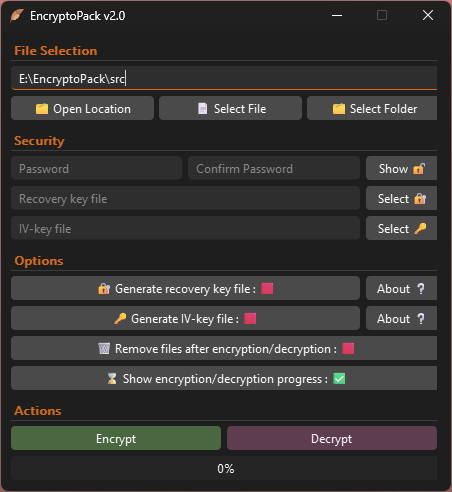
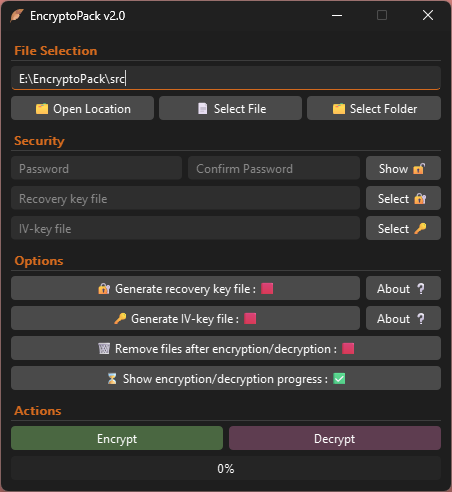
v2.0

diff --git a/src/gui.py b/src/gui.py
@@ -129,7 +129,7 @@ class MainWindow(QMainWindow):
 
         # Create main container
         main_frame = QFrame(self)
-        main_frame.setGeometry(10, 10, 426, 444)
+        main_frame.setGeometry(10, 10, 430, 444)
 
         # Layout positions
         y_pos = 0
@@ -234,12 +234,12 @@ class MainWindow(QMainWindow):
         y_pos += 25
 
         self.encrypt_button = StyledButton("Encrypt", main_frame)
-        self.encrypt_button.setGeometry(0, y_pos, 210, 24)
+        self.encrypt_button.setGeometry(0, y_pos, 212, 24)
         self.encrypt_button.setStyleSheet(UITheme.get_encrypt_button_style())
         self.encrypt_button.clicked.connect(self.encrypt_button_click)
 
         self.decrypt_button = StyledButton("Decrypt", main_frame)
-        self.decrypt_button.setGeometry(216, y_pos, 210, 24)
+        self.decrypt_button.setGeometry(218, y_pos, 212, 24)
         self.decrypt_button.setStyleSheet(UITheme.get_decrypt_button_style())
         self.decrypt_button.clicked.connect(self.decrypt_button_click)
         y_pos += 30
